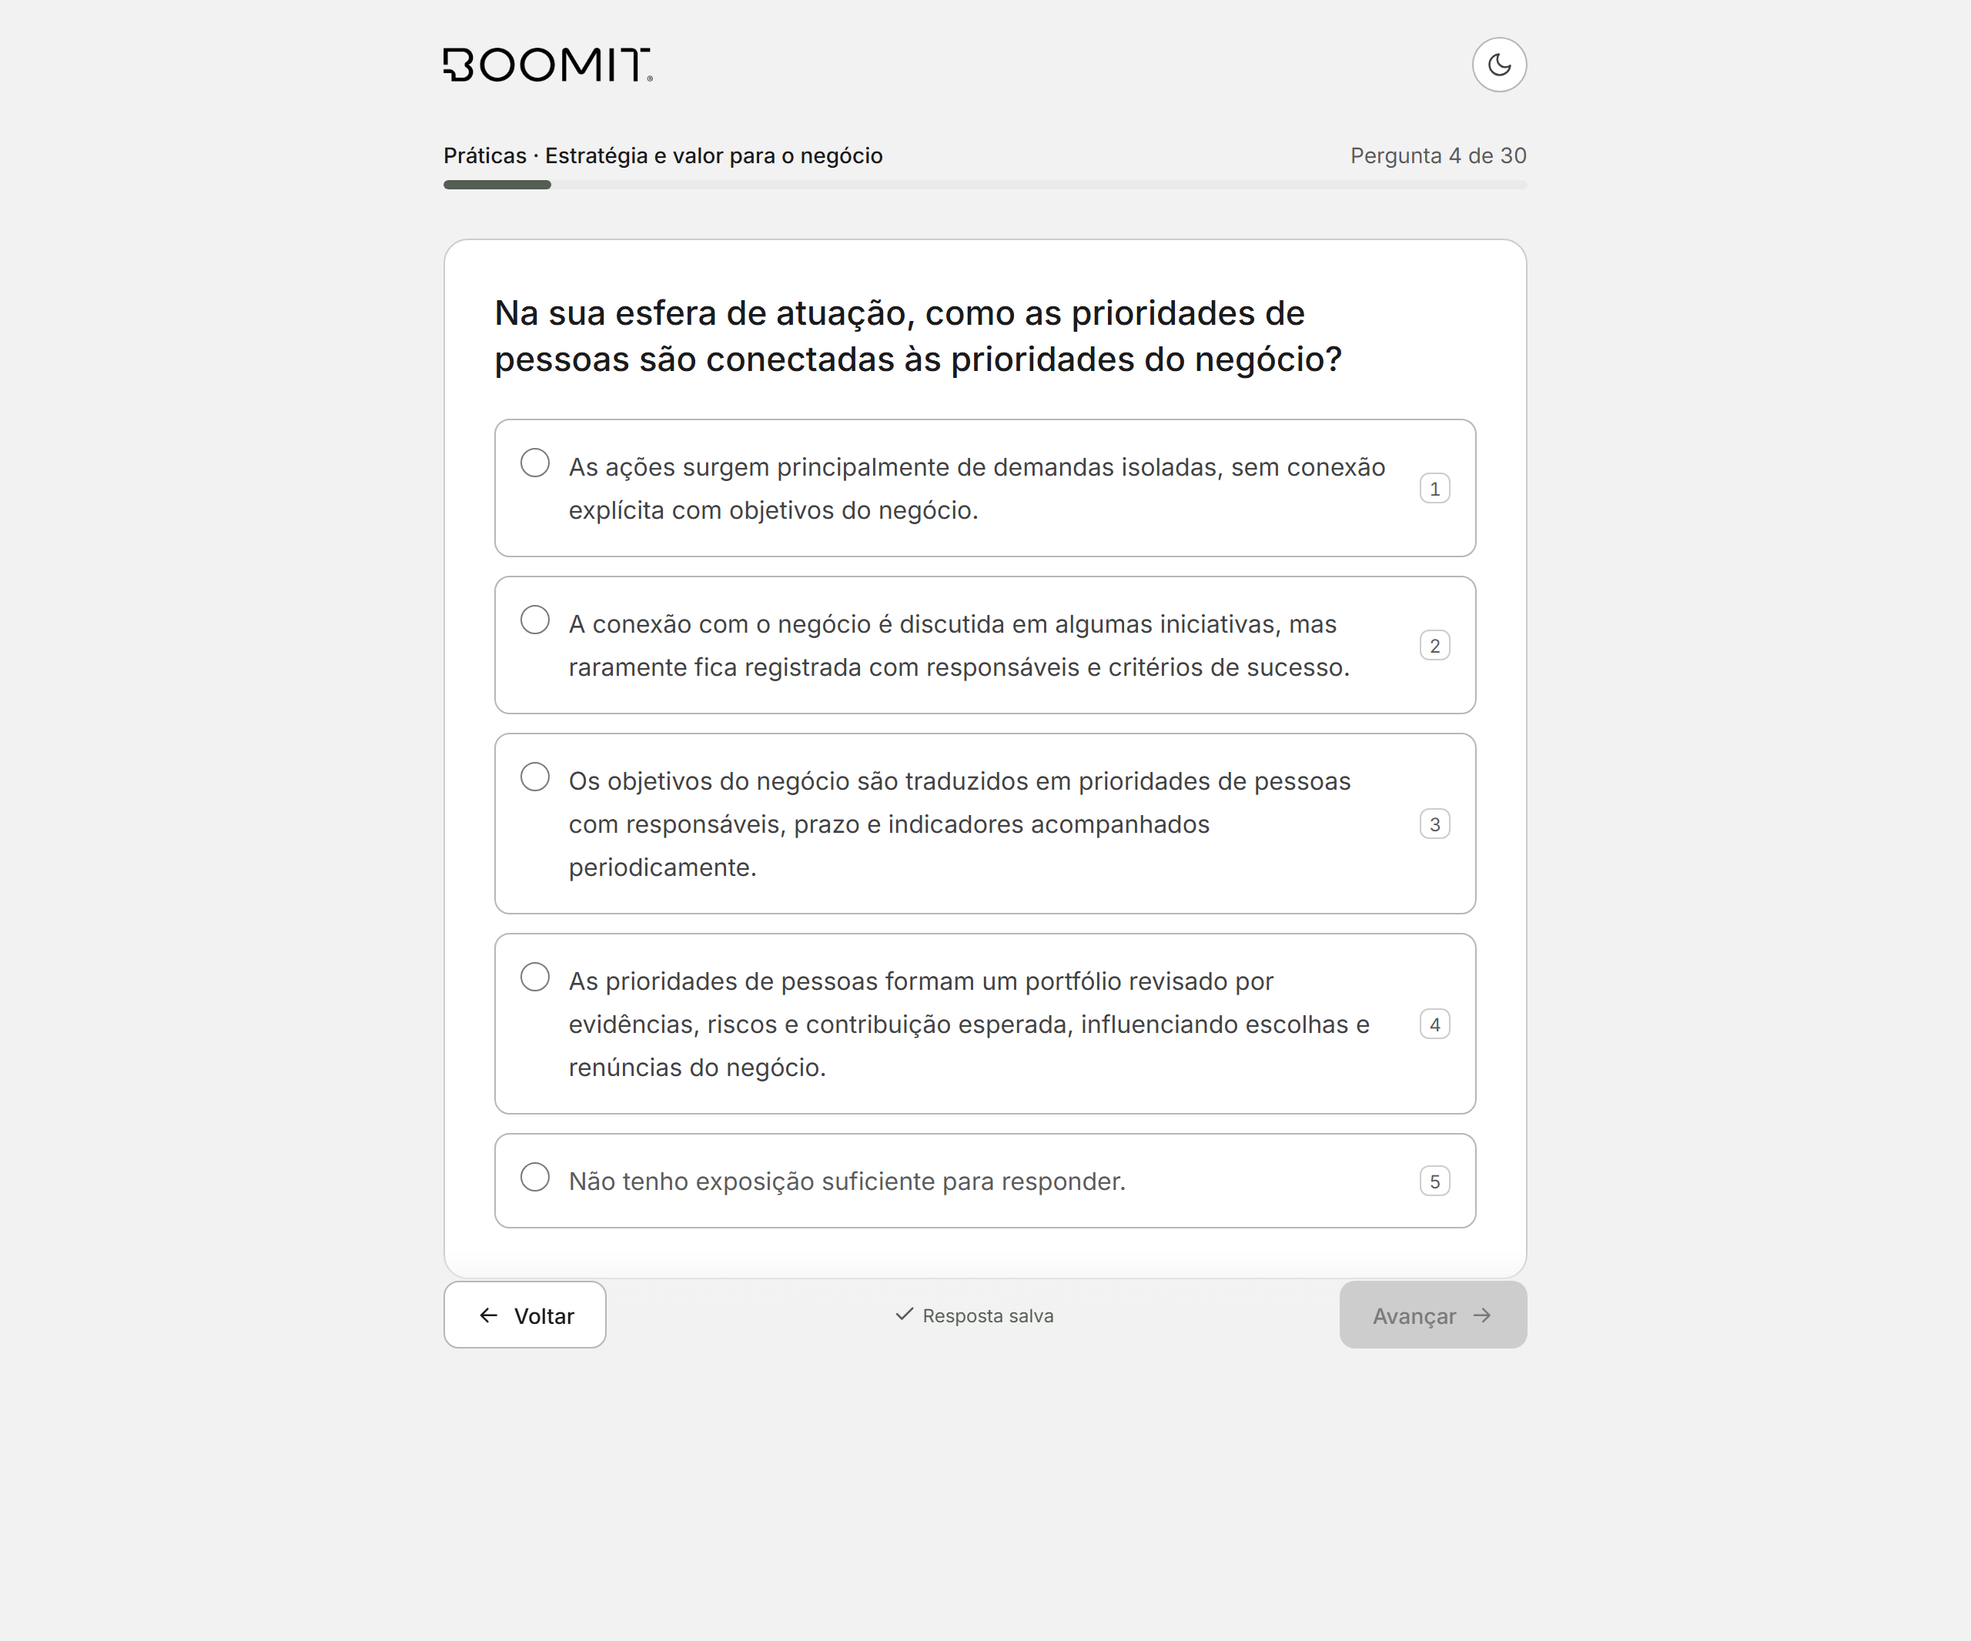
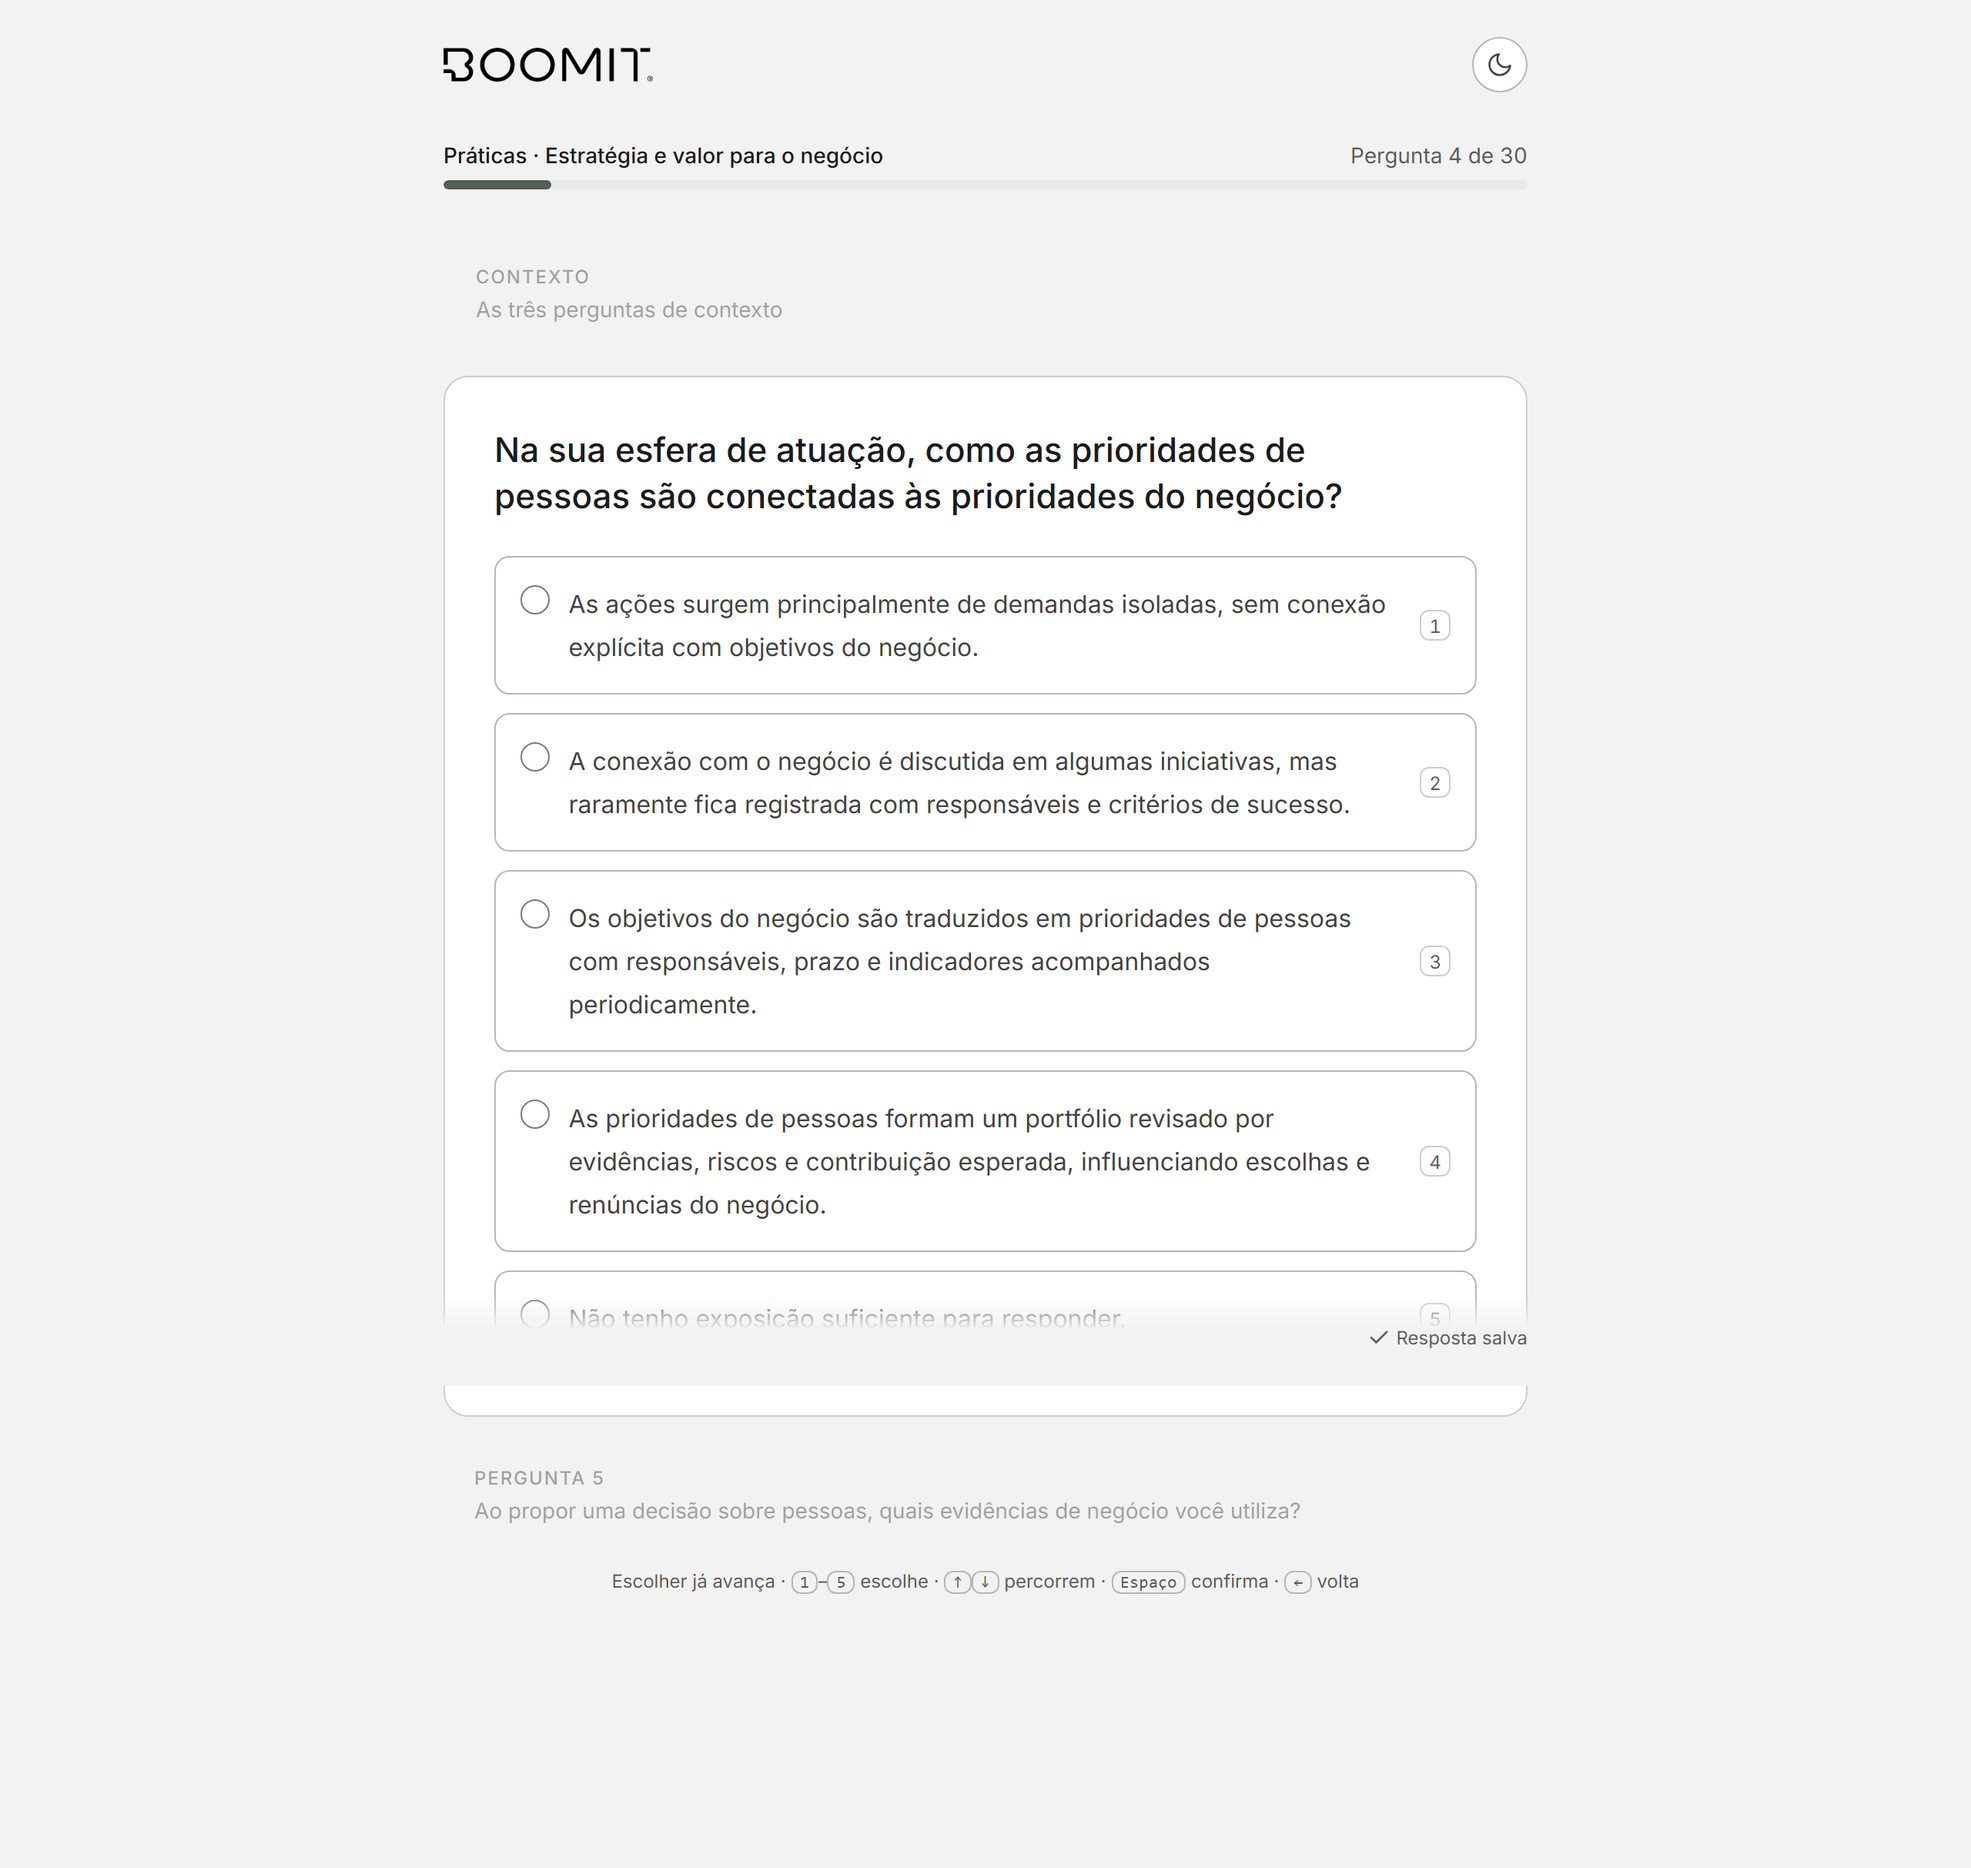
feat(rhia): uma questao por vez, com vizinhos esmaecidos e sem botao de avancar
A questao atual fica em evidencia; a anterior e a proxima aparecem apagadas
acima e abaixo, dando sentido de percurso sem competir com a pergunta. Escolher
ja avanca, entao o botao de "Avancar" deixou de existir. O vizinho de cima e o
caminho de volta e e um botao de verdade, com rotulo proprio para leitor de tela;
o de baixo nao e clicavel e sai da arvore de acessibilidade, porque ver o que vem
nao pode virar pular sem responder.

O avanco so acontece depois de a resposta estar GRAVADA: avancar antes
esconderia uma falha de rede. E ha uma pausa de 340ms para a pessoa ver a escolha
marcar antes de a tela trocar.

O risco de verdade desta mudanca era o teclado, e ele so aparece rodando.
Percorrer um radiogroup com as setas executa o comportamento de ativacao do
navegador: ele MARCA o radio e dispara click e change, indistinguiveis dos de um
toque. A primeira versao se guiava pelo click e avancava a cada seta — o teclado
ficava inutilizavel. Descobri medindo, nao supondo: escrevi um teste que dispara
eventos de teclado REAIS via CDP e ele reprovou na hora.

A correcao foi discriminar pela TECLA no keydown, que roda antes da acao padrao:
as setas anotam "estou navegando" e o Espaco desanota. E como a seta ja marca a
alternativa, o Espaco depois dela nao gera change nenhum — entao ele avanca
explicitamente, que e o que faz o teclado terminar o percurso sem botao.

O teste virou permanente em scripts/teclado.test.mjs, dentro de test:dev: sobe o
[…]

diff --git a/frontend/rhia.css b/frontend/rhia.css
@@ -101,6 +101,37 @@
 .rh-progress__txt { position: absolute; width: 1px; height: 1px; overflow: hidden; clip: rect(0 0 0 0); white-space: nowrap; margin: 0; }
 .sc-opt { position: relative; }
 
+/* --- Questões: pilha com vizinhos esmaecidos ------------------------------
+   Uma questão por vez, com a anterior e a próxima visíveis e apagadas. Dá
+   sentido de percurso — quanto já andou, o que vem — sem competir com a
+   pergunta que está sendo respondida. Escolher já avança, então não há botão
+   de "Avançar": o único controle é o caminho de volta, que é o vizinho de
+   cima (a seta ← faz o mesmo).
+
+   O vizinho de baixo NÃO é clicável e sai da árvore de acessibilidade: ver o
+   que vem não pode virar pular sem responder. O de cima é um <button> de
+   verdade, com rótulo próprio para quem usa leitor de tela. */
+.rh-pilha { display: grid; gap: var(--space-4); margin-top: var(--space-5); }
+.rh-viz { display: block; width: 100%; text-align: left; margin: 0; border: 0; background: none;
+  padding: var(--space-4) var(--space-5); border-radius: var(--radius-lg); color: var(--text-tertiary);
+  font: inherit; opacity: 0.55; transition: opacity var(--duration-base) var(--ease-out); }
+.rh-viz__k { display: block; font-size: var(--text-xs); letter-spacing: var(--tracking-display); text-transform: uppercase; font-weight: var(--weight-medium); }
+.rh-viz__t { display: block; margin-top: var(--space-1); font-size: var(--text-sm); line-height: var(--leading-sm);
+  display: -webkit-box; -webkit-line-clamp: 2; -webkit-box-orient: vertical; overflow: hidden; }
+.rh-viz--antes { cursor: pointer; border: 1px solid transparent; }
+.rh-viz--antes:hover { opacity: 0.9; background: var(--bg-muted); }
+.rh-viz--antes:focus-visible { opacity: 1; border-color: var(--border-default); }
+.rh-viz--depois { pointer-events: none; user-select: none; }
+.rh-pilha__atual { margin: 0; }
+/* O botão de avançar sumiu; a barra fica só com o indicador de salvamento. */
+.rh-nav--simples { justify-content: flex-end; }
+@media (max-width: 30rem) {
+  .rh-viz { padding: var(--space-3) var(--space-4); }
+  .rh-viz__t { -webkit-line-clamp: 1; }
+}
+/* Quem pediu menos movimento não recebe a transição de opacidade. */
+@media (prefers-reduced-motion: reduce) { .rh-viz { transition: none; } }
+
 /* --- Revisão -------------------------------------------------------------- */
 .rh-rev__texto { color: var(--text-primary); }
 .rh-tela--revisao .sc-rev__linha .sc-btn { min-height: 2.75rem; }
